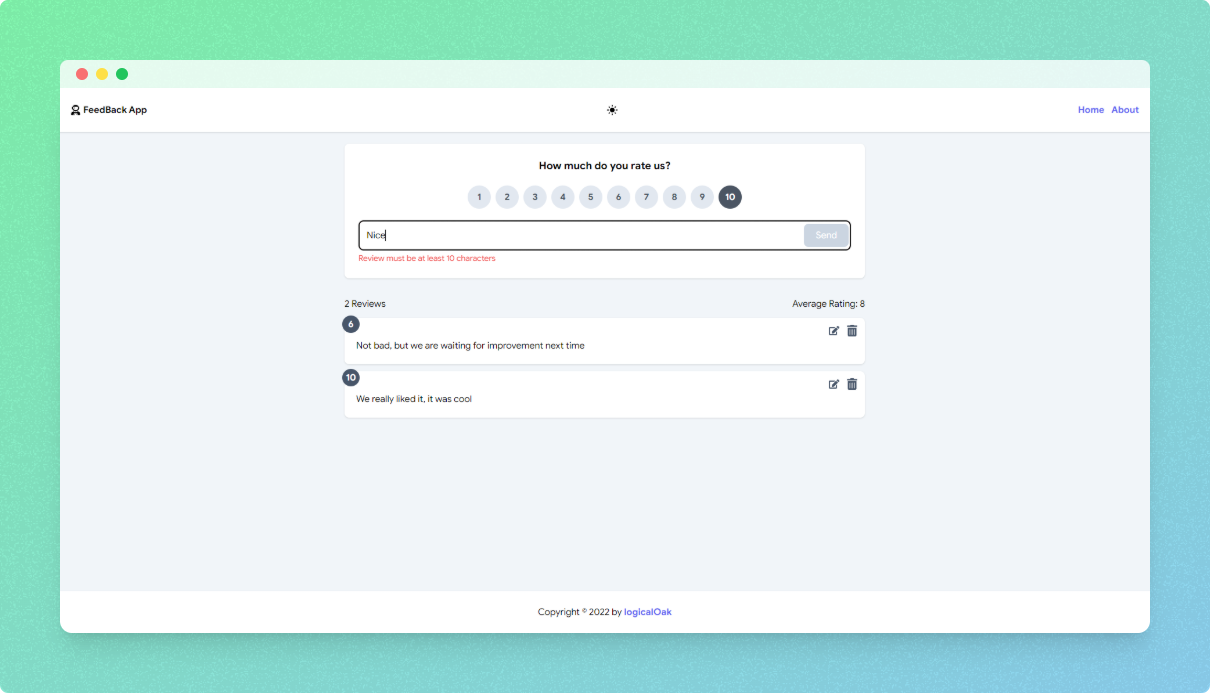
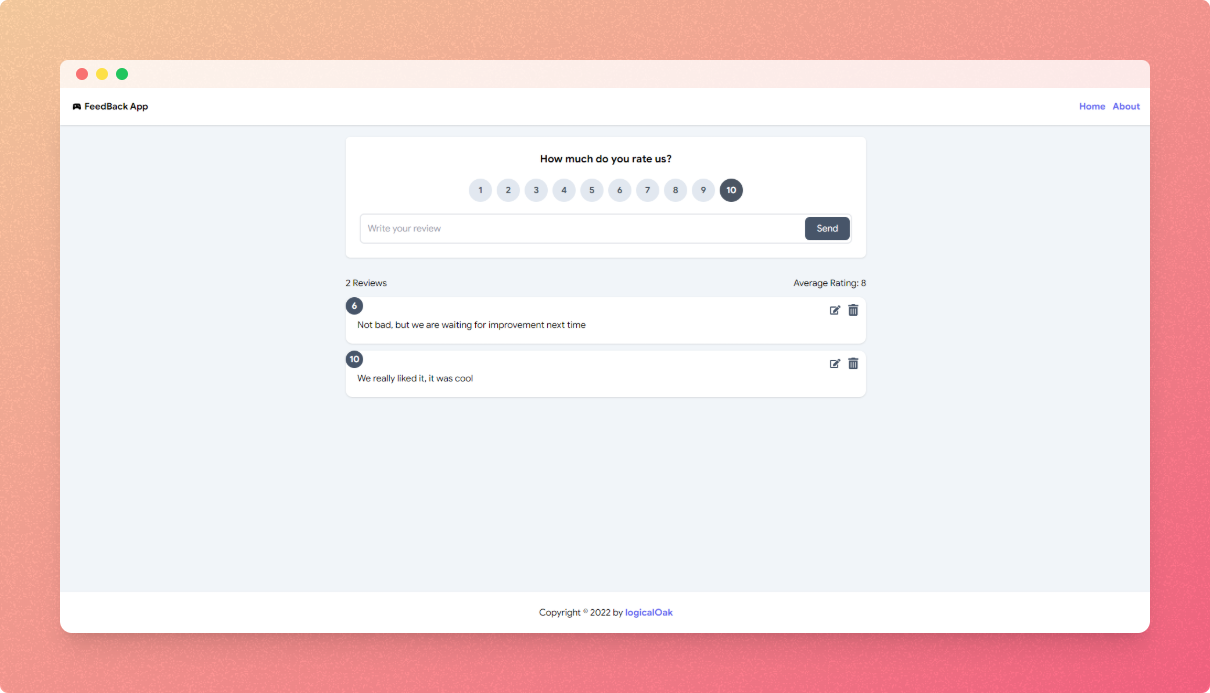
refactoring

diff --git a/src/components/pages/NotFound.jsx b/src/components/pages/NotFound.jsx
@@ -1,25 +1,27 @@
-import {Link} from "react-router-dom"
-import {FaGithub} from "react-icons/all"
+import { Link } from 'react-router-dom';
+import { FaGithub } from 'react-icons/all';
 
 /**
  * @description - NotFound Page Component
  * @returns {JSX.Element}
  * @constructor
  */
-const NotFound = () =>
-    <div className="flex flex-col items-center justify-center text-center dark:text-secondary">
-        <div className="grid gap-[10px]">
-            <p className="font-semibold text-6xl md:text-9xl flex gap-1 items-center justify-center">
-                4
-                <FaGithub className="inline text-4xl md:text-8xl"/>
-                4
-            </p>
-            <h1>Page not found</h1>
-            <Link
-                className="bg-blue-500 hover:bg-blue-700 text-white font-bold py-2 px-4 rounded text-center focus:outline-none focus:shadow-outline transition-all"
-                to="/"
-            >Back to home</Link>
-        </div>
-    </div>
+const NotFound = () => (
+	<div className='flex flex-col items-center justify-center text-center'>
+		<div className='grid gap-[10px]'>
+			<p className='font-semibold text-6xl md:text-9xl flex gap-1 items-center justify-center'>
+				4
+				<FaGithub className='inline text-4xl md:text-8xl' />4
+			</p>
+			<h1>Page not found</h1>
+			<Link
+				className='bg-blue-500 hover:bg-blue-700 text-white font-bold py-2 px-4 rounded text-center focus:outline-none focus:shadow-outline transition-all'
+				to='/'
+			>
+				Back to home
+			</Link>
+		</div>
+	</div>
+);
 
-export default NotFound
+export default NotFound;

diff --git a/src/components/layout/Header.jsx b/src/components/layout/Header.jsx
@@ -1,6 +1,5 @@
 import { MdSportsEsports } from 'react-icons/md';
 import { Link } from 'react-router-dom';
-import { Toggle } from '../index';
 
 /**
  * @description Header
@@ -8,7 +7,7 @@ import { Toggle } from '../index';
  * @constructor
  */
 const Header = () => (
-	<header className='bg-white p-3 shadow md:py-5 lg:px-5 dark:bg-primary text-secondary relative'>
+	<header className='bg-white p-3 shadow md:py-5 lg:px-5 text-secondary relative'>
 		<div className='flex flex-col items-center gap-1 sm:flex-row sm:justify-between'>
 			{/* Logo */}
 			<Link
@@ -19,22 +18,17 @@ const Header = () => (
 				FeedBack App
 			</Link>
 
-			{/* Theme Toggle */}
-			<div className='absolute z-10 right-2 rounded-[50%] bg-white hover:shadow hover:text-indigo-500 transition-all sm:static dark:bg-secondary dark:hover:text-accent'>
-				<Toggle />
-			</div>
-
 			{/* Nav */}
 			<div className='flex gap-2 sm:gap-3'>
 				<Link
 					to='/'
-					className='font-bold text-sm text-indigo-500 hover:text-indigo-800 transition-all sm:text-base dark:text-secondary dark:hover:text-accent'
+					className='font-bold text-sm text-indigo-500 hover:text-indigo-800 transition-all sm:text-base'
 				>
 					Home
 				</Link>
 				<Link
 					to='/about'
-					className='font-bold text-sm text-indigo-500 hover:text-indigo-800 transition-all sm:text-base dark:text-secondary dark:hover:text-accent'
+					className='font-bold text-sm text-indigo-500 hover:text-indigo-800 transition-all sm:text-base'
 				>
 					About
 				</Link>

diff --git a/src/components/layout/ListItem.jsx b/src/components/layout/ListItem.jsx
@@ -18,21 +18,21 @@ const ListItem = ({ rating, text, id }) => {
 		);
 	};
 	return (
-		<div className='bg-white shadow rounded-lg relative p-4 pt-8 lg:p-5 lg:pt-9 dark:bg-slate-900 dark:text-white'>
+		<div className='bg-white shadow rounded-xl relative p-4 pt-8 lg:p-5 lg:pt-9'>
 			{/* Control */}
 			<div className='absolute right-2 top-2 flex items-center gap-1'>
 				<button className='p-1' onClick={() => editItem(id)}>
-					<FaEdit className='text-lg text-slate-600 hover:text-slate-500 dark:text-slate-400 dark:hover:text-slate-500' />
+					<FaEdit className='text-lg text-slate-600 hover:text-slate-500' />
 				</button>
 				<button
 					className='p-1'
 					onClick={() => dispatch(deleteFeedback(id))}
 				>
-					<FaTrashAlt className='text-lg lg:text-xl text-slate-600 hover:text-slate-500 dark:text-slate-400 dark:hover:text-slate-500' />
+					<FaTrashAlt className='text-lg lg:text-xl text-slate-600 hover:text-slate-500' />
 				</button>
 			</div>
 			{/* Rating */}
-			<p className='absolute -left-1 -top-1 flex justify-center items-center w-[30px] h-[30px] rounded-full bg-slate-600 text-white font-semibold text-md dark:bg-slate-500'>
+			<p className='absolute left-0 top-0 flex justify-center items-center w-[30px] h-[30px] rounded-full bg-slate-600 text-white font-semibold text-md'>
 				{rating}
 			</p>
 			{/* Text */}

diff --git a/src/components/layout/Footer.jsx b/src/components/layout/Footer.jsx
@@ -4,11 +4,11 @@
  * @constructor
  */
 const Footer = () => (
-	<footer className='flex items-center justify-center py-6 bg-white shadow dark:bg-primary dark:text-secondary'>
+	<footer className='flex items-center justify-center py-6 bg-white shadow'>
 		<p>
 			Copyright &copy; {new Date().getFullYear()} by
 			<a
-				className='font-bold text-indigo-500 hover:text-indigo-800 transition-all sm:text-base dark:text-accent dark:hover:text-secondary'
+				className='font-bold text-indigo-500 hover:text-indigo-800 transition-all sm:text-base'
 				target='_blank'
 				href='https://github.com/logicalOak/'
 			>

diff --git a/src/features/feedback/feedbackSlice.js b/src/features/feedback/feedbackSlice.js
@@ -28,17 +28,14 @@ export const fetchFeedback = createAsyncThunk(
 	GET_FEEDBACK,
 	fetchFeedbackCreator
 );
-export const addFeedback = createAsyncThunk(
-	ADD_FEEDBACK,
-	await addFeedbackCreator
-);
+export const addFeedback = createAsyncThunk(ADD_FEEDBACK, addFeedbackCreator);
 export const editFeedback = createAsyncThunk(
 	EDIT_FEEDBACK,
-	await editFeedbackCreator
+	editFeedbackCreator
 );
 export const deleteFeedback = createAsyncThunk(
 	DELETE_FEEDBACK,
-	await deleteFeedbackCreator
+	deleteFeedbackCreator
 );
 
 /* It creates a new slice. */

diff --git a/src/components/pages/About.jsx b/src/components/pages/About.jsx
@@ -6,7 +6,7 @@ import { Link } from 'react-router-dom';
  * @constructor
  */
 const About = () => (
-	<div className='max-w-4xl m-auto flex flex-col items-start gap-[10px] bg-white shadow rounded px-5 py-3 dark:bg-primary dark:text-secondary'>
+	<div className='max-w-4xl m-auto flex flex-col items-start gap-[10px] bg-white shadow rounded px-5 py-3'>
 		<h1 className='font-semibold text-lg sm:text-xl'>👉 About</h1>
 		<p>
 			<span className='font-semibold'>Description:</span> Application for

diff --git a/src/components/index.js b/src/components/index.js
@@ -1,6 +1,5 @@
 // layout
 export { default as Loader } from './layout/Loader';
-export { default as Toggle } from './layout/Toggle';
 export { default as Header } from './layout/Header';
 export { default as Footer } from './layout/Footer';
 export { default as Form } from './layout/Form';

diff --git a/src/components/layout/Form.jsx b/src/components/layout/Form.jsx
@@ -106,8 +106,7 @@ const Form = () => {
 				{/* Button */}
 				<button
 					className={`btn ${
-						errors.text &&
-						'bg-slate-300 pointer-events-none dark:bg-slate-400'
+						errors.text && 'bg-slate-300 pointer-events-none'
 					}`}
 					type='submit'
 				>
